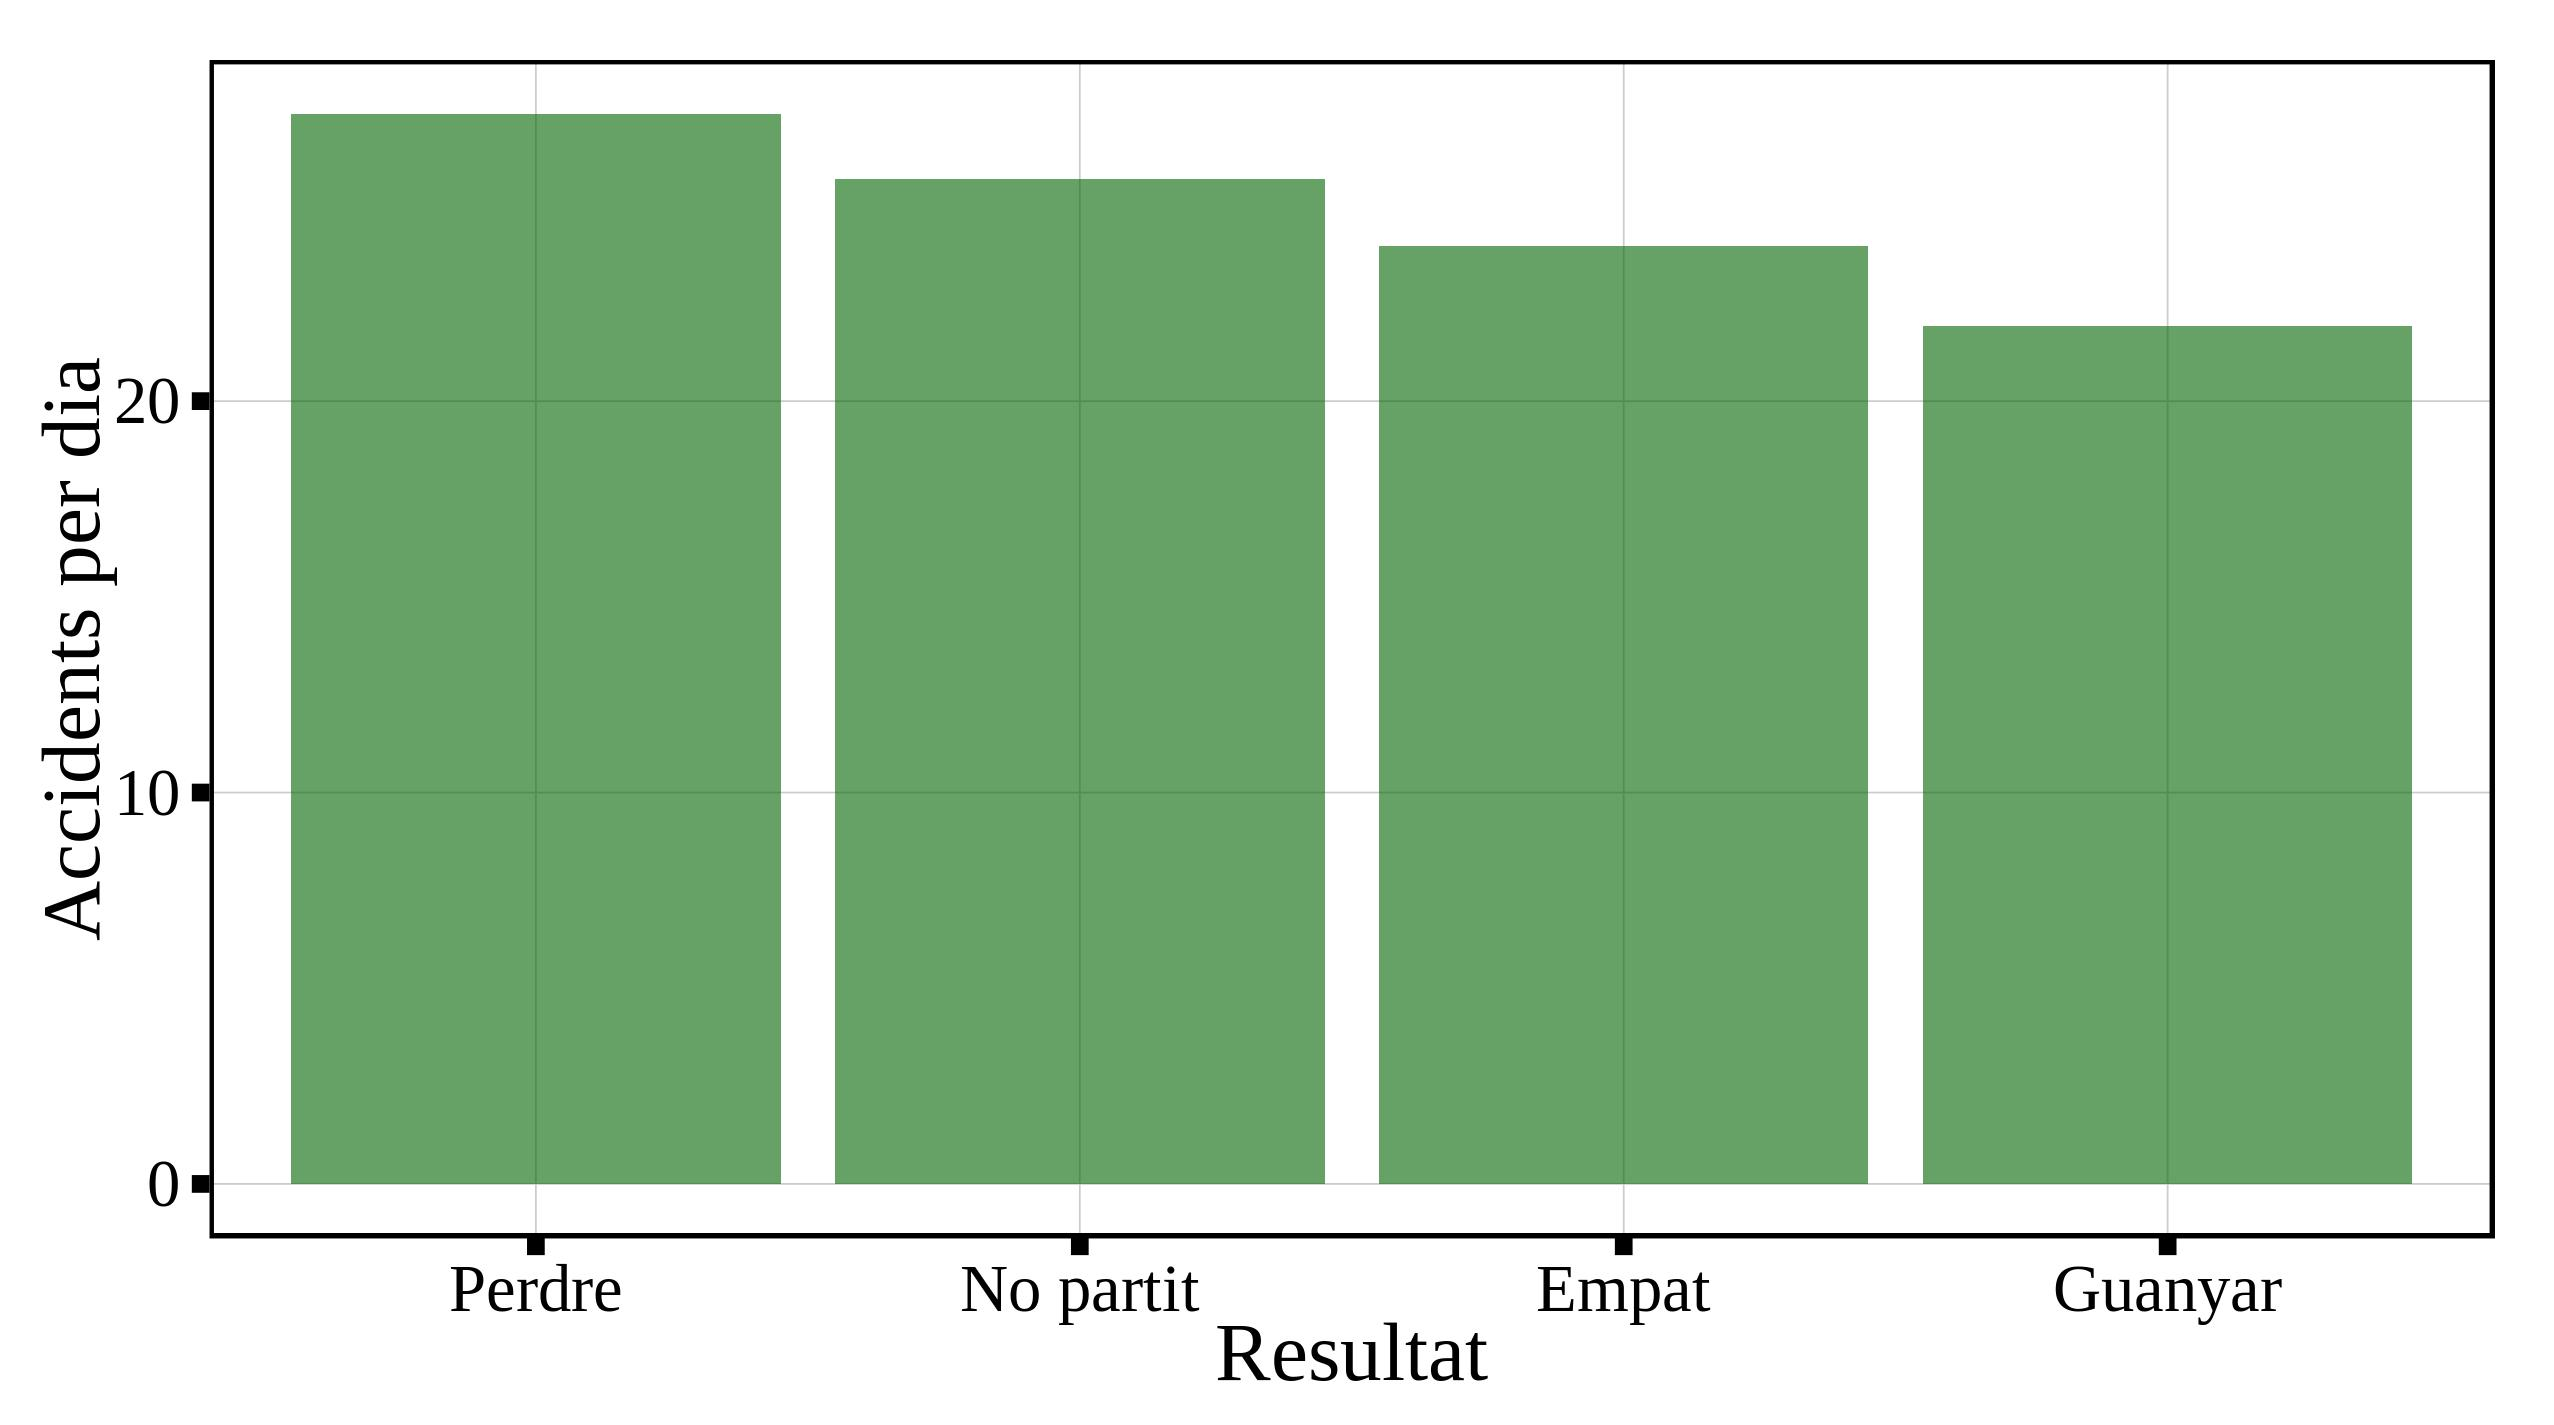
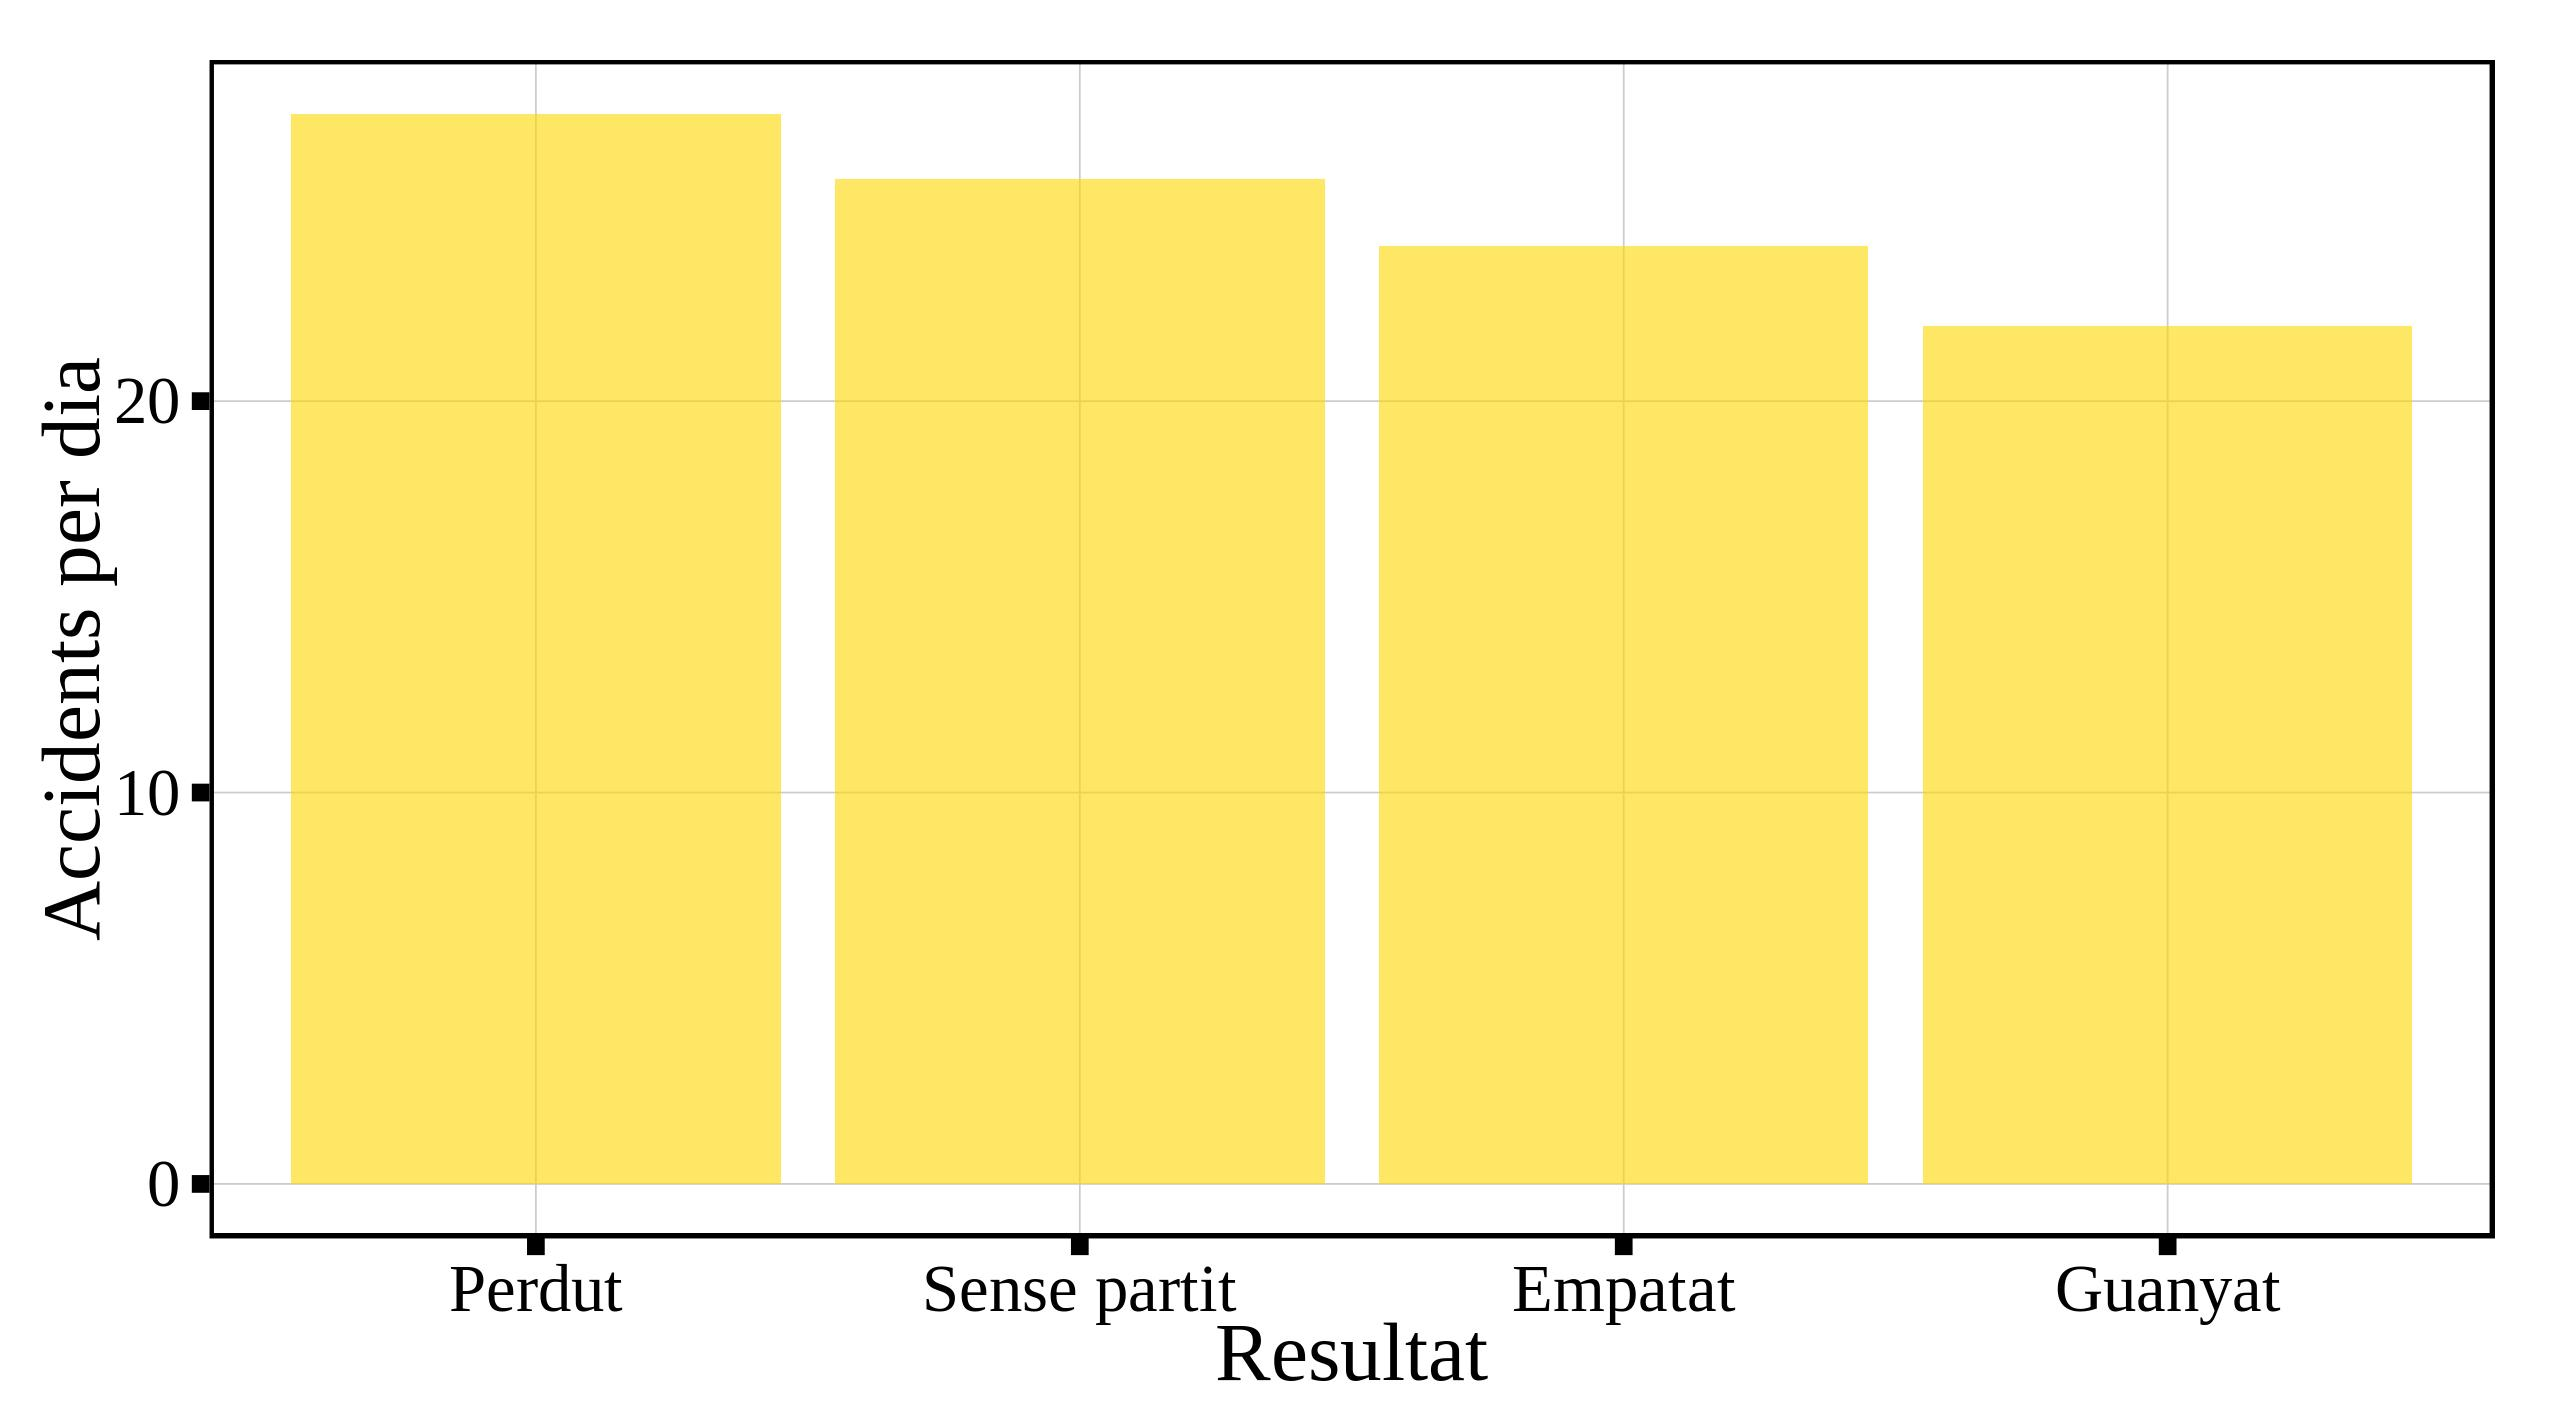
colored graphics, minor grammatical changes

diff --git a/_posts/2015-11-30-Car-accidents-in-Barcelona.ca.html b/_posts/2015-11-30-Car-accidents-in-Barcelona.ca.html
@@ -45,19 +45,20 @@ category: ca
 
 <h3 class="section-heading">Però tot és una mica perillós </h3>
 
-<p>La realitat és que, comparant amb altres ciutats, Barcelona és especialment perillosa.  
+<p>La realitat és que, comparant amb altres ciutats, Barcelona és especialment perillosa.</p>  
 
 <a href="{{ site.baseurl }}/img/2015-11-30-Car-accidents-in-Barcelona/over_time_2014.gif">
     <img src="{{ site.baseurl }}/img/2015-11-30-Car-accidents-in-Barcelona/over_time_2014.gif" alt="So many photos in this post", align='right'>
 </a>
 <span class="caption text-muted"></span>
 
-<a href="http://www.telegraph.co.uk/news/worldnews/europe/italy/3198659/Rome-most-dangerous-city-in-Europe-for-traffic-accidents.html">Roma és pitjor.</a> (quina sorpresa, no?), però Barcelona té molts cotxes, moltes motos, molts autobusos i molta gent intentant anar de punt A a punt B. Tot això porta a una mitjana de 9.235 accidents per any en els últims 5 anys, el que correspon a més de 25 accidetns per dia.</p>
+
+<p><a href="http://www.telegraph.co.uk/news/worldnews/europe/italy/3198659/Rome-most-dangerous-city-in-Europe-for-traffic-accidents.html">Roma és pitjor.</a> (quina sorpresa, no?), però Barcelona té molts cotxes, moltes motos, molts autobusos i molta gent intentant anar de punt A a punt B. Tot això porta a una mitjana de 9.235 accidents per any en els últims 5 anys, el que correspon a més de 25 accidetns per dia.</p>
 
 <h3 class="section-heading">I no sembla que estigui millorant</h3>
 
 
-<p>El 2010, hi havia només una mica més de 9.000 accidents. El 2011, va baixar fins a 8.809.  Des de llavors per`o, el nombre d'accidents ha anat augmentant cada any, amb un màxim de 9.660 el 2014 (l'ultim any del qual disposem de dades).</p>
+<p>El 2010, hi havia només una mica més de 9.000 accidents. El 2011, va baixar fins a 8.809.  Des de llavors però, el nombre d'accidents ha anat augmentant cada any, amb un màxim de 9.660 el 2014 (l'ultim any del qual disposem de dades).</p>
 
 <a href="{{ site.baseurl }}/img/2015-11-30-Car-accidents-in-Barcelona/by_year_ca.JPG">
     <img src="{{ site.baseurl }}/img/2015-11-30-Car-accidents-in-Barcelona/by_year_ca.JPG" alt="So many photos in this post">

diff --git a/_site/ca/2015/11/30/Car-accidents-in-Barcelona.ca/index.html b/_site/ca/2015/11/30/Car-accidents-in-Barcelona.ca/index.html
@@ -145,19 +145,20 @@
 
 <h3 class="section-heading">Però tot és una mica perillós </h3>
 
-<p>La realitat és que, comparant amb altres ciutats, Barcelona és especialment perillosa.  
+<p>La realitat és que, comparant amb altres ciutats, Barcelona és especialment perillosa.</p>  
 
 <a href="/img/2015-11-30-Car-accidents-in-Barcelona/over_time_2014.gif">
     <img src="/img/2015-11-30-Car-accidents-in-Barcelona/over_time_2014.gif" alt="So many photos in this post", align='right'>
 </a>
 <span class="caption text-muted"></span>
 
-<a href="http://www.telegraph.co.uk/news/worldnews/europe/italy/3198659/Rome-most-dangerous-city-in-Europe-for-traffic-accidents.html">Roma és pitjor.</a> (quina sorpresa, no?), però Barcelona té molts cotxes, moltes motos, molts autobusos i molta gent intentant anar de punt A a punt B. Tot això porta a una mitjana de 9.235 accidents per any en els últims 5 anys, el que correspon a més de 25 accidetns per dia.</p>
+
+<p><a href="http://www.telegraph.co.uk/news/worldnews/europe/italy/3198659/Rome-most-dangerous-city-in-Europe-for-traffic-accidents.html">Roma és pitjor.</a> (quina sorpresa, no?), però Barcelona té molts cotxes, moltes motos, molts autobusos i molta gent intentant anar de punt A a punt B. Tot això porta a una mitjana de 9.235 accidents per any en els últims 5 anys, el que correspon a més de 25 accidetns per dia.</p>
 
 <h3 class="section-heading">I no sembla que estigui millorant</h3>
 
 
-<p>El 2010, hi havia només una mica més de 9.000 accidents. El 2011, va baixar fins a 8.809.  Des de llavors per`o, el nombre d'accidents ha anat augmentant cada any, amb un màxim de 9.660 el 2014 (l'ultim any del qual disposem de dades).</p>
+<p>El 2010, hi havia només una mica més de 9.000 accidents. El 2011, va baixar fins a 8.809.  Des de llavors però, el nombre d'accidents ha anat augmentant cada any, amb un màxim de 9.660 el 2014 (l'ultim any del qual disposem de dades).</p>
 
 <a href="/img/2015-11-30-Car-accidents-in-Barcelona/by_year_ca.JPG">
     <img src="/img/2015-11-30-Car-accidents-in-Barcelona/by_year_ca.JPG" alt="So many photos in this post">
